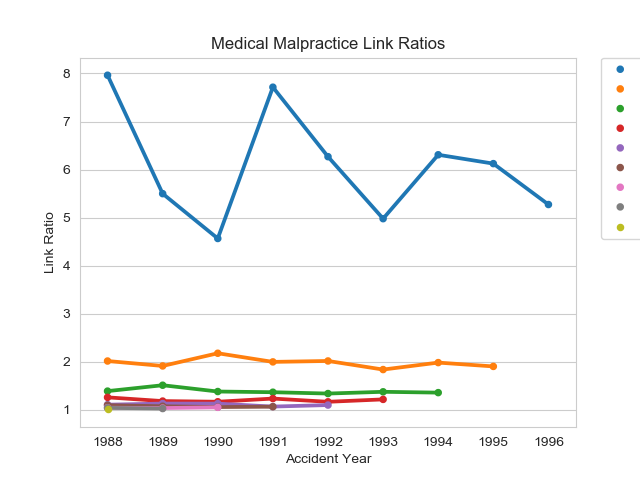
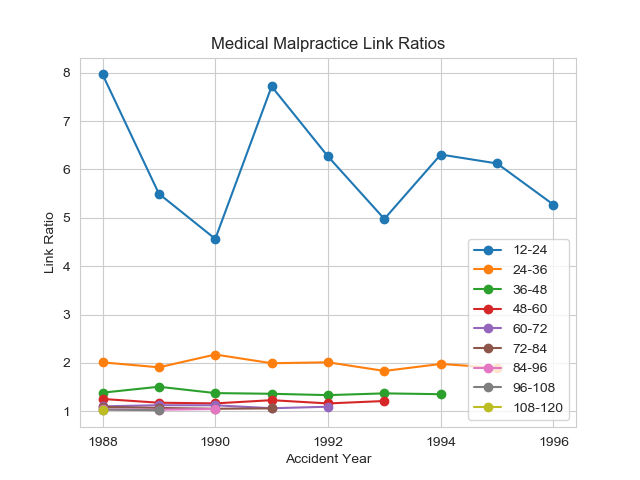
3.5 compatibility check

diff --git a/chainladder/core/base.py b/chainladder/core/base.py
@@ -100,9 +100,9 @@ class TriangleBase:
     # ---------------------------------------------------------------- #
     def _len_check(self, x, y):
         if len(x) != len(y):
-            raise ValueError(f'Length mismatch: Expected axis has ',
-                             f'{len(x)} elements, new values have',
-                             f' {len(y)} elements')
+            raise ValueError('Length mismatch: Expected axis has ',
+                             '{} elements, new values have'.format(len(x)),
+                             ' {} elements'.format(len(y)))
 
     @property
     def shape(self):
@@ -151,7 +151,7 @@ class TriangleBase:
         temp[temp == 0] = np.nan
         val_array = obj.valuation.values.reshape(obj.shape[-2:],order='f')[:, 1:]
         obj.triangle = temp[..., 1:]/temp[..., :-1]
-        obj.ddims = np.array([f'{obj.ddims[i]}-{obj.ddims[i+1]}'
+        obj.ddims = np.array(['{}-{}'.format(obj.ddims[i], obj.ddims[i+1])
                               for i in range(len(obj.ddims)-1)])
         # Check whether we want to eliminate the last origin period
         if np.max(np.sum(~np.isnan(self.triangle[..., -1, :]), 2)-1) == 0:
@@ -355,8 +355,8 @@ class TriangleBase:
                                    float_format=fmt_str.format) \
                           .replace('nan', '')
             return default.replace(
-                f'<th></th>\n      <th>{self.development.values[0][0]}</th>',
-                f'<th>Origin</th>\n      <th>{self.development.values[0][0]}</th>')
+                '<th></th>\n      <th>{}</th>'.format(self.development.values[0][0]),
+                '<th>Origin</th>\n      <th>{}</th>'.format(self.development.values[0][0]))
         else:
             data = pd.Series([self.valuation_date.strftime('%Y-%m'),
                              'O' + self.origin_grain + 'D'
@@ -392,12 +392,15 @@ class TriangleBase:
         axes = [num for num, item in enumerate(self.shape) if item > 1]
         if self.shape[:2] == (1, 1):
             return self._repr_format()
-        elif len(axes) == 2:
+        elif len(axes) == 2 or len(axes) == 1:
             tri = np.squeeze(self.triangle)
             axes_lookup = {0: self.kdims, 1: self.vdims,
                            2: self.odims, 3: self.ddims}
-            return pd.DataFrame(tri, index=axes_lookup[axes[0]],
-                                columns=axes_lookup[axes[1]])
+            if len(axes) == 2:
+                return pd.DataFrame(tri, index=axes_lookup[axes[0]],
+                                    columns=axes_lookup[axes[1]])
+            if len(axes) == 1:
+                return pd.Series(tri, index=axes_lookup[axes[0]])
         else:
             raise ValueError('len(index) and len(columns) must be 1.')
 

diff --git a/chainladder/tails/constant.py b/chainladder/tails/constant.py
@@ -18,14 +18,14 @@ class TailConstant(TailBase):
 
     Attributes
     ----------
-    ldf_
-        ldf_ with tail applied.
-    cdf_
-        cdf_ with tail applied.
-    sigma_
-        sigma_ with tail factor applied.
-    std_err_
-        std_err_ with tail factor applied
+    ldf_ :
+        ldf with tail applied.
+    cdf_ :
+        cdf with tail applied.
+    sigma_ :
+        sigma with tail factor applied.
+    std_err_ :
+        std_err with tail factor applied
 
     Examples
     --------
@@ -62,12 +62,14 @@ class TailConstant(TailBase):
 
     def fit(self, X, y=None, sample_weight=None):
         """Fit the model with X.
+
         Parameters
         ----------
         X : Triangle-like
             Set of LDFs to which the tail will be applied.
         y : Ignored
         sample_weight : Ignored
+
         Returns
         -------
         self : object
@@ -86,12 +88,12 @@ class TailConstant(TailBase):
 
         Parameters
         ----------
-        X : {Triangle}
-            Triangle must contain the `ldf_` development attribute.
+        X : Triangle
+            Triangle must contain the ``ldf_`` development attribute.
 
         Returns
         -------
-        X_new : {Triangle}
+        X_new : Triangle
             New Triangle with tail factor applied to its development
             attributes.
         """

diff --git a/chainladder/tails/curve.py b/chainladder/tails/curve.py
@@ -8,7 +8,7 @@ import numpy as np
 
 
 class TailCurve(TailBase):
-    """Allows for the entry of a constant tail factor to LDFs.
+    """Allows for extraploation of LDFs to form a tail factor.
 
     Parameters
     ----------
@@ -82,7 +82,7 @@ class TailCurve(TailBase):
             np.ones(tuple(list(_y.shape)[:-1] +
                     [self.extrap_periods])), -1) + n_obs
         tail = self._predict_tail(slope, intercept, extrapolate)
-        self.ldf_.triangle = self.ldf_.triangle[..., -1:]
+        self.ldf_.triangle = self.ldf_.triangle[..., :-tail.shape[-1]]
         self.ldf_.triangle = np.concatenate((self.ldf_.triangle, tail), -1)
         sigma, std_err = self._get_tail_stats(X)
         self.sigma_.triangle[..., -1] = sigma[..., -1]
@@ -120,7 +120,7 @@ class TailCurve(TailBase):
         return sigma_, std_err_
 
     def _get_x(self, w, y):
-        ''' For Exponential decay, no transformation on x is needed '''
+        # For Exponential decay, no transformation on x is needed
         if self.curve == 'exponential':
             return None
         if self.curve == 'inverse_power':

diff --git a/chainladder/tails/base.py b/chainladder/tails/base.py
@@ -22,7 +22,7 @@ class TailBase(BaseEstimator):
         tail = np.ones(self.ldf_.shape)[..., -1:]
         tail = np.repeat(tail, self._ave_period[0]+1, -1)
         self.ldf_.triangle = np.concatenate((self.ldf_.triangle, tail), -1)
-        self.ldf_.ddims = np.array([f'{ddims[i]}-{ddims[i+1]}'
+        self.ldf_.ddims = np.array(['{}-{}'.format(ddims[i], ddims[i+1])
                                     for i in range(len(ddims)-1)])
         self.ldf_.valuation = self.ldf_._valuation_triangle()
         self.sigma_ = copy.deepcopy(X.sigma_)
@@ -33,7 +33,7 @@ class TailBase(BaseEstimator):
         self.std_err_.triangle = np.concatenate(
             (self.std_err_.triangle, zeros), -1)
         self.sigma_.ddims = self.std_err_.ddims = \
-            np.append(X.ldf_.ddims, [f'{int(X.ddims[-1])}-9999'])
+            np.append(X.ldf_.ddims, ['{}-9999'.format(int(X.ddims[-1]))])
         val_array = self.sigma_._valuation_triangle(self.sigma_.ddims)
         self.sigma_.valuation = self.std_err_.valuation = val_array
         return self

diff --git a/chainladder/development/tests/test_munich.py b/chainladder/development/tests/test_munich.py
@@ -8,14 +8,14 @@ CL = importr('ChainLadder')
 
 
 def test_mcl_paid():
-    df = r(f'MunichChainLadder(MCLpaid, MCLincurred)').rx('MCLPaid')
+    df = r('MunichChainLadder(MCLpaid, MCLincurred)').rx('MCLPaid')
     p = cl.MunichAdjustment(paid_to_incurred={'paid':'incurred'}).fit(cl.Development(sigma_interpolation='mack').fit_transform(cl.load_dataset('mcl'))).munich_full_triangle_[0,0,0,:,:]
     arr = np.array(df[0])
     assert_allclose(arr, p, atol=1e-5)
 
 
 def test_mcl_incurred():
-    df = r(f'MunichChainLadder(MCLpaid, MCLincurred)').rx('MCLIncurred')
+    df = r('MunichChainLadder(MCLpaid, MCLincurred)').rx('MCLIncurred')
     p = cl.MunichAdjustment(paid_to_incurred={'paid':'incurred'}).fit(cl.Development(sigma_interpolation='mack').fit_transform(cl.load_dataset('mcl'))).munich_full_triangle_[1,0,0,:,:]
     arr = np.array(df[0])
     assert_allclose(arr, p, atol=1e-5)

diff --git a/docs/auto_examples/plot_triangle_slicing.py b/docs/auto_examples/plot_triangle_slicing.py
@@ -9,7 +9,6 @@ This example demonstrates the familiarity of the pandas API applied to a
 """
 import chainladder as cl
 import seaborn as sns
-import matplotlib.pyplot as plt
 sns.set_style('whitegrid')
 
 # The base Triangle Class:
@@ -24,12 +23,7 @@ clrd = clrd['CumPaidLoss']
 # pandas loc-style index slicing
 clrd = clrd.loc['medmal']
 
-# Convert link ratios to dataframe
-link_ratios = clrd.link_ratio.to_frame().unstack().reset_index()
-link_ratios.columns = ['Age', 'Accident Year', 'Link Ratio']
-
 # Plot
-sns.pointplot(hue='Age', y='Link Ratio', x='Accident Year',
-              data=link_ratios, markers='.')
-plt.legend(bbox_to_anchor=(1.05, 1), loc=2, borderaxespad=0.)
-g = plt.title('Medical Malpractice Link Ratios')
+g = clrd.link_ratio.plot(marker='o') \
+        .set(title='Medical Malpractice Link Ratios',
+             ylabel='Link Ratio', xlabel='Accident Year')

diff --git a/examples/plot_triangle_slicing.py b/examples/plot_triangle_slicing.py
@@ -9,7 +9,6 @@ This example demonstrates the familiarity of the pandas API applied to a
 """
 import chainladder as cl
 import seaborn as sns
-import matplotlib.pyplot as plt
 sns.set_style('whitegrid')
 
 # The base Triangle Class:
@@ -24,12 +23,7 @@ clrd = clrd['CumPaidLoss']
 # pandas loc-style index slicing
 clrd = clrd.loc['medmal']
 
-# Convert link ratios to dataframe
-link_ratios = clrd.link_ratio.to_frame().unstack().reset_index()
-link_ratios.columns = ['Age', 'Accident Year', 'Link Ratio']
-
 # Plot
-sns.pointplot(hue='Age', y='Link Ratio', x='Accident Year',
-              data=link_ratios, markers='.')
-plt.legend(bbox_to_anchor=(1.05, 1), loc=2, borderaxespad=0.)
-g = plt.title('Medical Malpractice Link Ratios')
+g = clrd.link_ratio.plot(marker='o') \
+        .set(title='Medical Malpractice Link Ratios',
+             ylabel='Link Ratio', xlabel='Accident Year')

diff --git a/setup.py b/setup.py
@@ -13,14 +13,14 @@ setup(
     version=version,
     maintainer='John Bogaardt',
     maintainer_email='jbogaardt@gmail.com',
-    packages=[f'{name}.{p}' for p in find_packages(where=name)]+['chainladder'],
+    packages=['{}.{}'.format(name, p) for p in find_packages(where=name)]+['chainladder'],
     scripts=[],
     url=url,
-    download_url=f'{url}/archive/v{version}.tar.gz',
+    download_url='{}/archive/v{}.tar.gz'.format(url, version),
     license='LICENSE',
     include_package_data=True,
     package_data={'data': [data_path+item
-                           for item in listdir(f'chainladder{data_path}')]},
+                           for item in listdir('chainladder{}'.format(data_path))]},
     description=descr,
     # long_description=open('README.md').read(),
     install_requires=[

diff --git a/chainladder/methods/tests/test_mack.py b/chainladder/methods/tests/test_mack.py
@@ -15,9 +15,9 @@ def atol():
 
 def mack_r(data, alpha, est_sigma, tail):
     if tail:
-        return r(f'mack<-MackChainLadder({data},alpha={alpha}, est.sigma="{est_sigma}", tail=TRUE)')
+        return r('mack<-MackChainLadder({},alpha={}, est.sigma="{}", tail=TRUE)'.format(data, alpha, est_sigma))
     else:
-        return r(f'mack<-MackChainLadder({data},alpha={alpha}, est.sigma="{est_sigma}")')
+        return r('mack<-MackChainLadder({},alpha={}, est.sigma="{}")'.format(data, alpha, est_sigma))
 
 
 def mack_p(data, average, est_sigma, tail):

diff --git a/chainladder/development/base.py b/chainladder/development/base.py
@@ -78,7 +78,7 @@ class Development(DevelopmentBase):
             return self._assign_n_periods_weight_int(X, self.n_periods)[..., :-1]
         elif type(self.n_periods) is list:
             if len(self.n_periods) != X.triangle.shape[-1]-1:
-                raise ValueError(f'n_periods list must be of lenth {X.triangle.shape[-1]-1}.')
+                raise ValueError('n_periods list must be of lenth {}.'.format(X.triangle.shape[-1]-1))
             else:
                 return self._assign_n_periods_weight_list(X)
         else:

diff --git a/chainladder/utils/utility_functions.py b/chainladder/utils/utility_functions.py
@@ -48,9 +48,9 @@ def parallelogram_olf(values, date, start_date=None, end_date=None,
     """
     date = pd.to_datetime(date)
     if not start_date:
-        start_date = f'{date.min().year-1}-01-01'
+        start_date = '{}-01-01'.format(date.min().year-1)
     if not end_date:
-        end_date = f'{date.max().year+1}-12-31'
+        end_date = '{}-12-31'.format(date.max().year+1)
     date_idx = pd.date_range(start_date, end_date)
     y = pd.Series(np.array(values), np.array(date))
     y = y.reindex(date_idx, fill_value=0)

diff --git a/chainladder/tails/tests/test_exponential.py b/chainladder/tails/tests/test_exponential.py
@@ -12,7 +12,7 @@ def atol():
     return 1e-5
 
 def mack_r(data, alpha, est_sigma):
-    return r(f'mack<-MackChainLadder({data},alpha={alpha}, est.sigma="{est_sigma}", tail=TRUE)')
+    return r('mack<-MackChainLadder({},alpha={}, est.sigma="{}", tail=TRUE)'.format(data, alpha, est_sigma))
 
 
 def mack_p(data, average, est_sigma):
